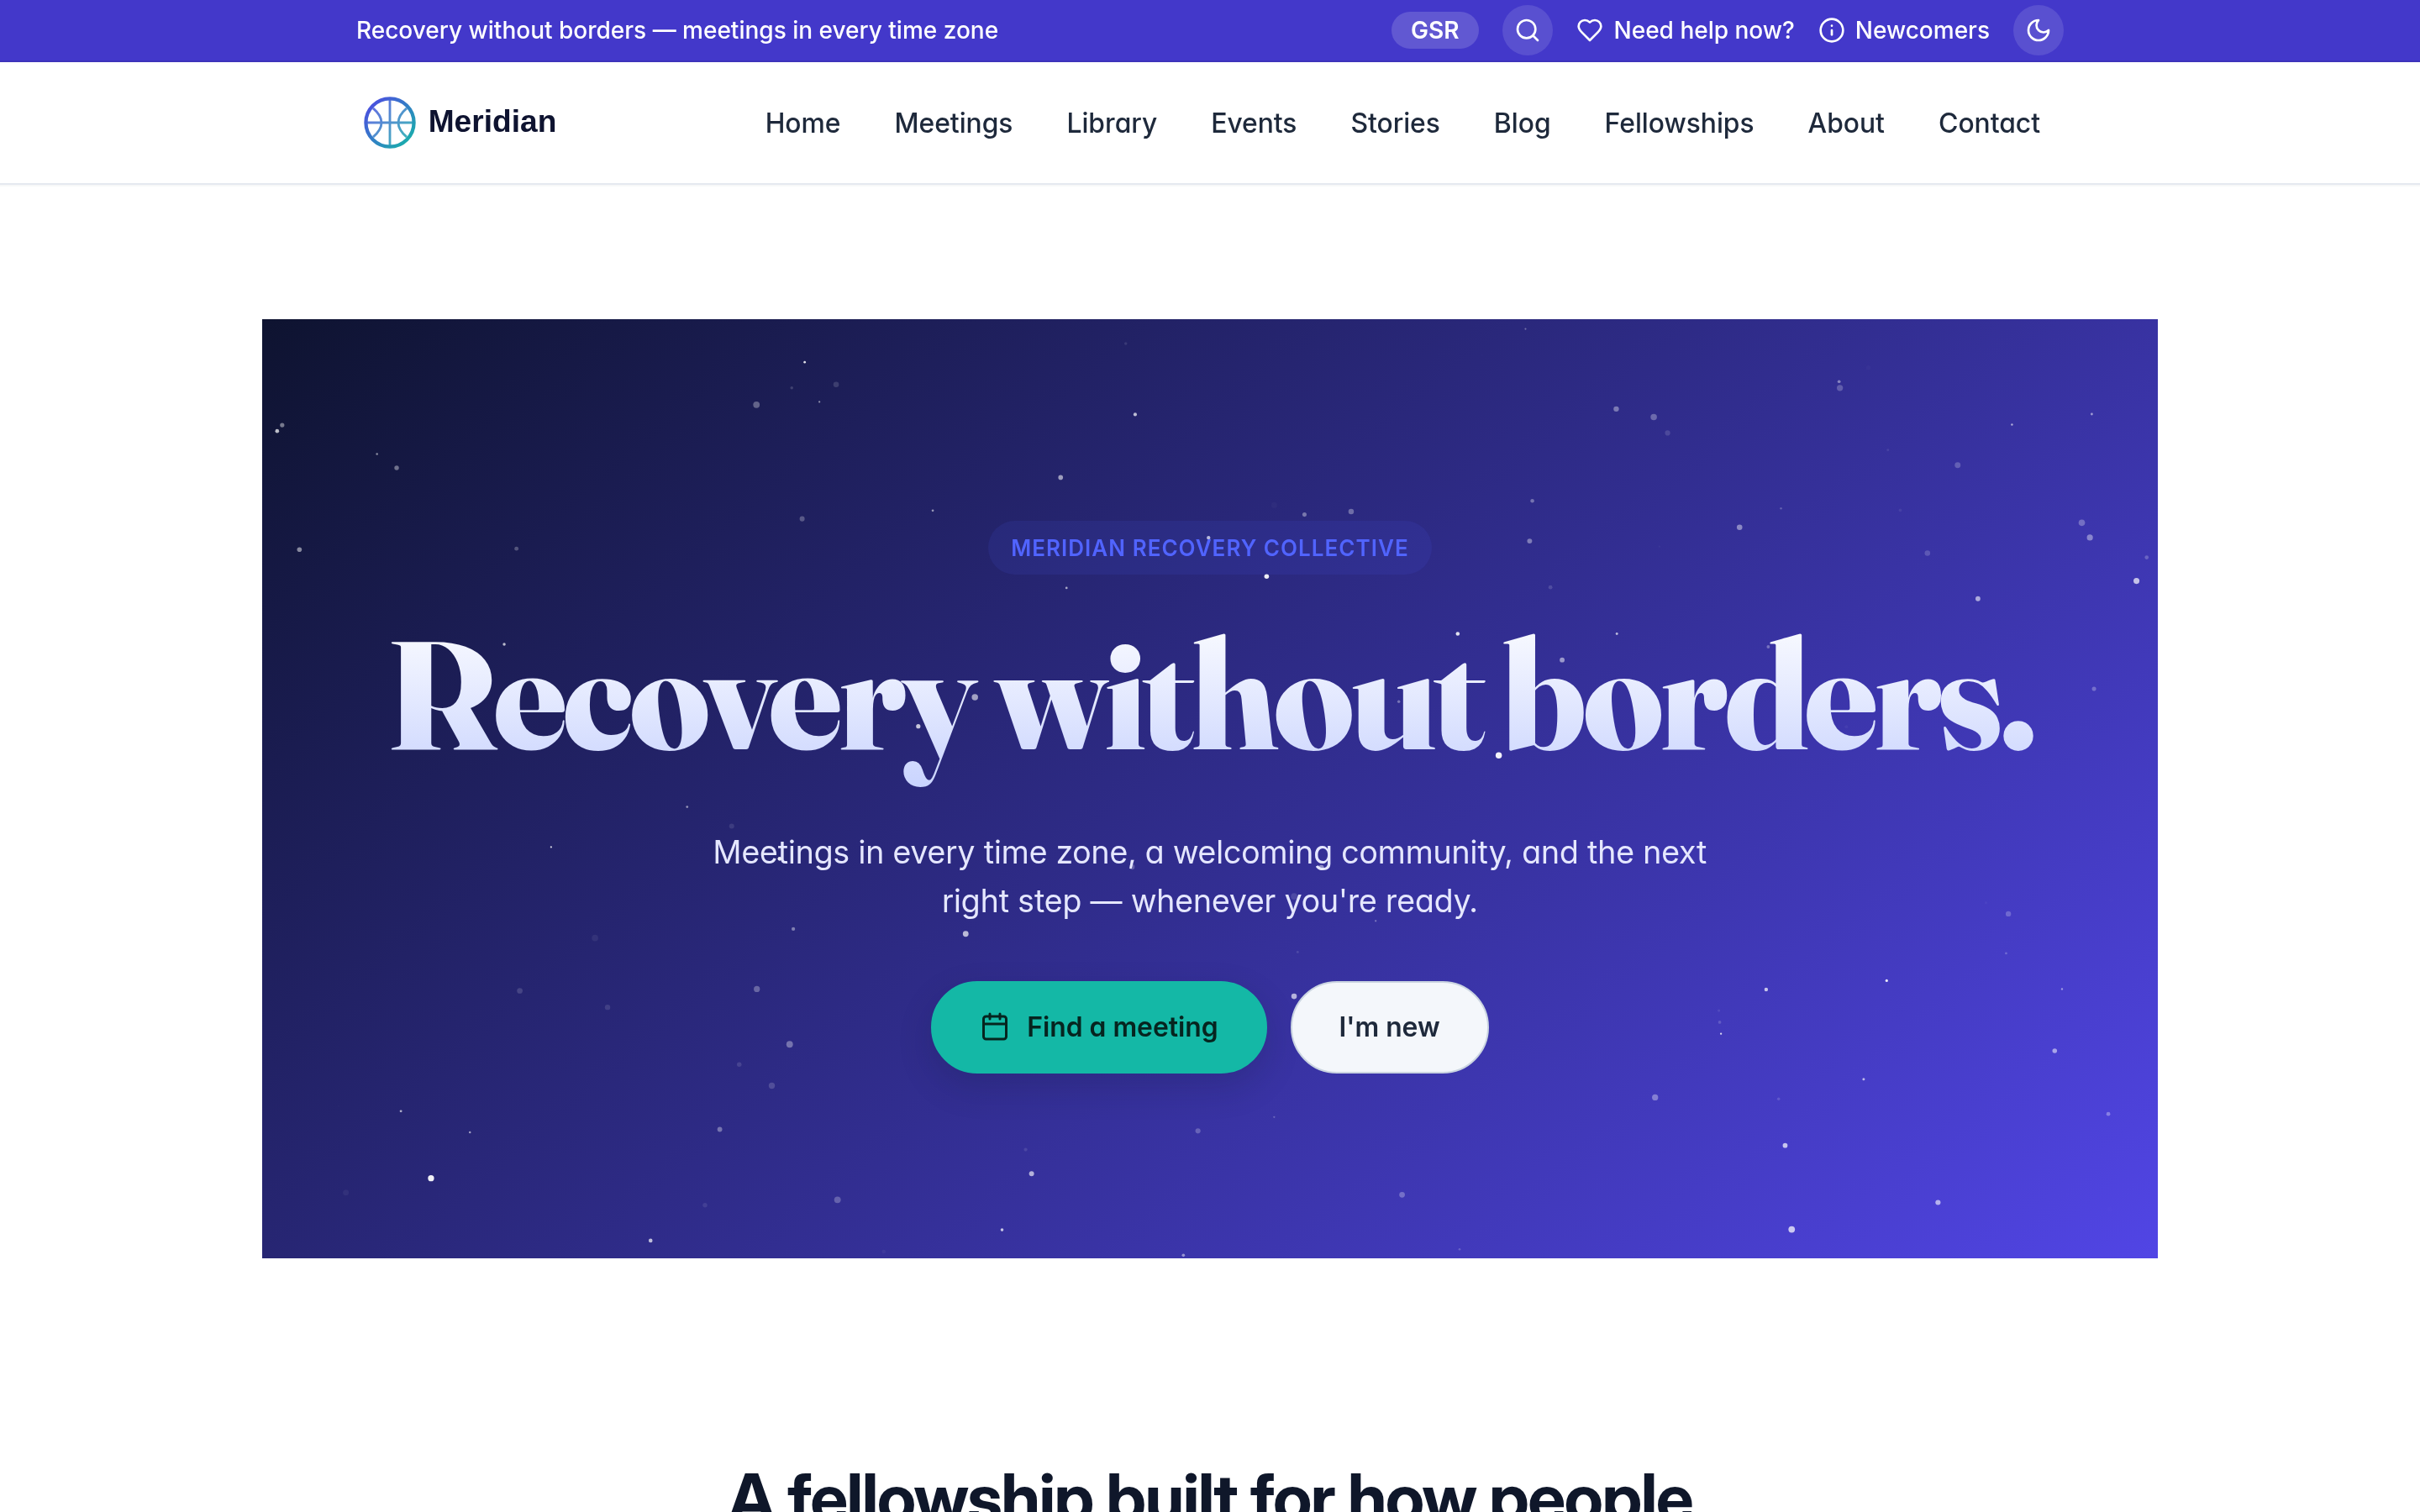
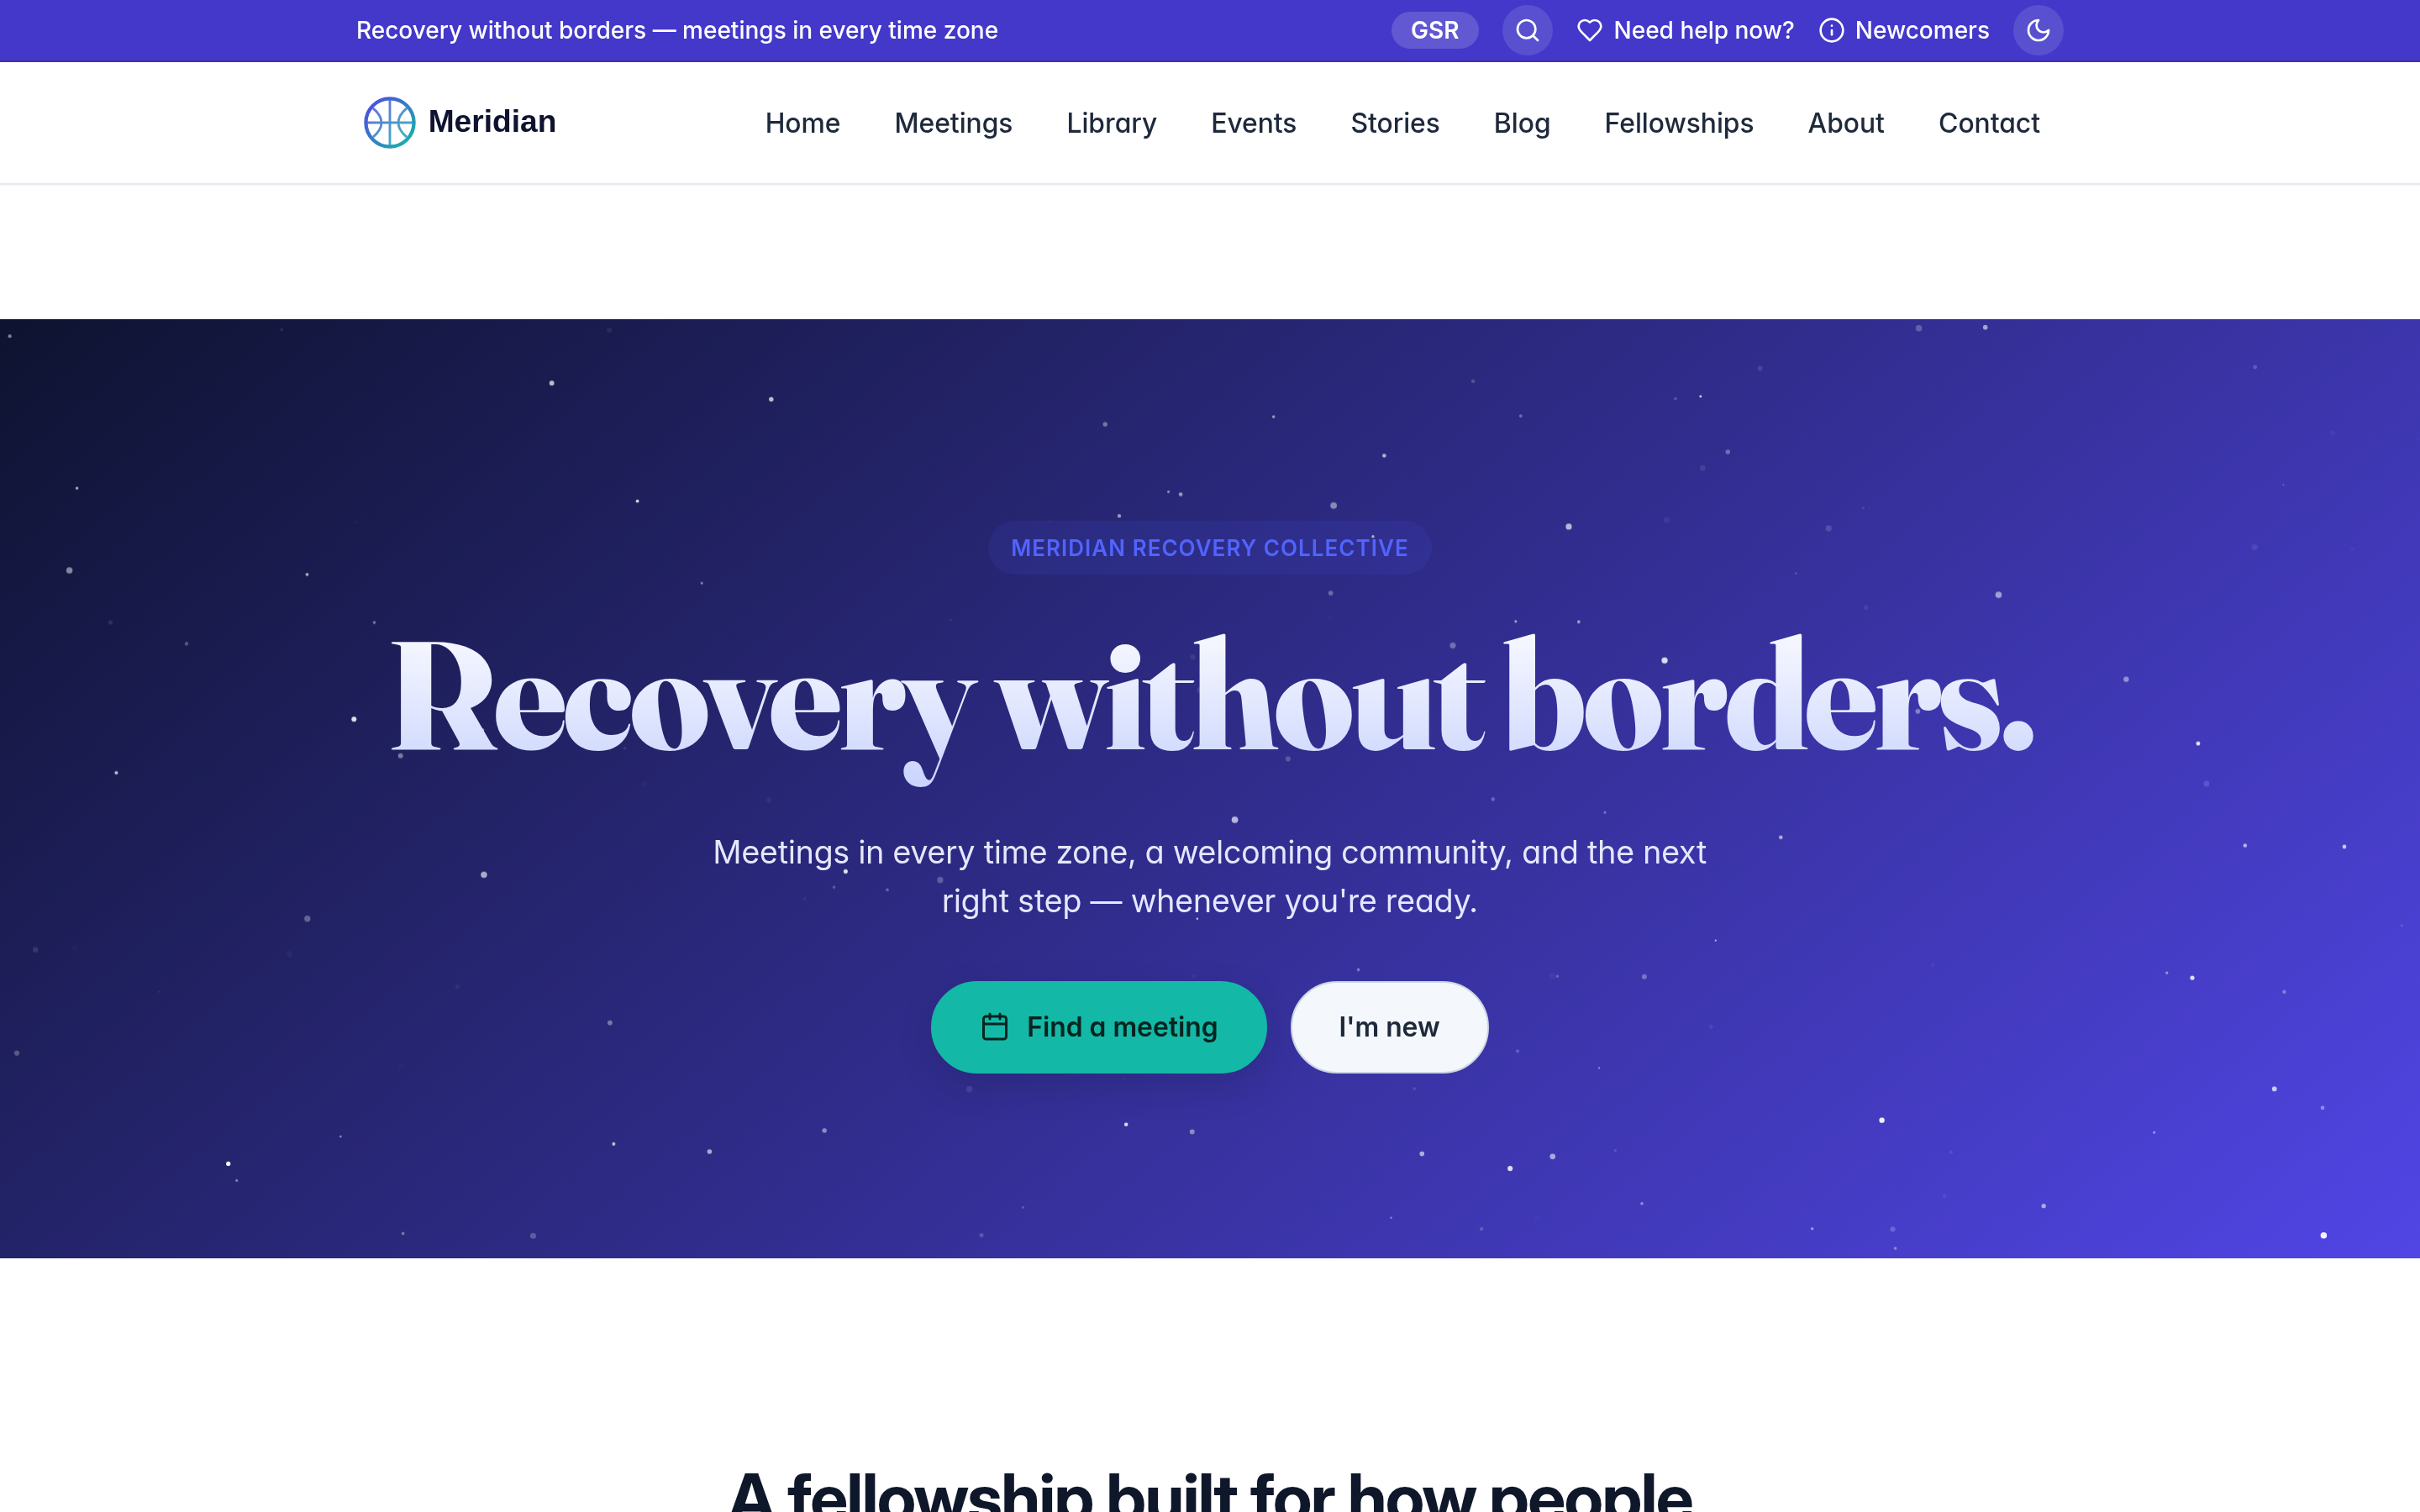
Marketing fixes: dark-mode toggle, full-bleed demo hero, copy + branding
- Fix dark mode: theme vars were declared on .pp which is on BOTH <html> and
  <body>; the body re-matched the prefers-color-scheme rules independently and
  ignored the data-theme toggle on <html>. Scope theme-var + logo/toggle swap
  selectors to :root so <body> inherits — toggling/stored theme now applies in
  every OS/choice combination.
- Hero graphic: replace the mock 'this week's meetings' card with the real
  be-dashboard.png screenshot; dedupe images across hero/surfaces/showcase.
- Demo homepage hero now spans full width: keep the page boxed (centered
  content) and let .fe-pp .fe-hero break out to 100vw (frontend.css), then
  re-screenshot fe-home for the marketing site; drop the redundant 'Upcoming
  meetings' section title.
- Stat '$0 …' → 'Free — open source & self-hosted' (no money framing).
- Footer + title use the product's real name: 'Trusted Servants Pro'
  (never 'Trusted Servant(s) Portal').

Changed region(s): [[0.0, 0.1867, 0.125, 0.84], [0.875, 0.1867, 1.0, 0.84]]

diff --git a/app/static/css/product.css b/app/static/css/product.css
@@ -17,7 +17,11 @@
 }
 
 /* ── theme tokens: dark is the base ──────────────────────────────────────── */
-.pp {
+/* NB: theme variables are declared on :root (the <html> element) ONLY, not on
+   the generic `.pp` — because `.pp` is also on <body>, and if the conditional
+   light rules matched <body> independently it would ignore the data-theme
+   toggle set on <html>. Declaring vars on :root lets <body> inherit them. */
+:root.pp {
   --brand: #6366f1;
   --brand-2: #8b5cf6;
   --teal: #2dd4bf;
@@ -45,7 +49,7 @@
 /* light overrides — applied when the user picks light OR the OS prefers light
    and they haven't forced dark. (Block intentionally duplicated; CSS can't
    share a declaration body between a media query and a plain selector.) */
-.pp[data-theme="light"] {
+:root.pp[data-theme="light"] {
   --ink: #f5f7fc; --ink-2: #ffffff;
   --panel: rgba(14, 19, 48, 0.035); --panel-2: rgba(14, 19, 48, 0.06);
   --line: rgba(14, 19, 48, 0.12);
@@ -58,7 +62,7 @@
   color-scheme: light;
 }
 @media (prefers-color-scheme: light) {
-  .pp:not([data-theme="dark"]) {
+  :root.pp:not([data-theme="dark"]) {
     --ink: #f5f7fc; --ink-2: #ffffff;
     --panel: rgba(14, 19, 48, 0.035); --panel-2: rgba(14, 19, 48, 0.06);
     --line: rgba(14, 19, 48, 0.12);
@@ -146,19 +150,19 @@
 .pp-themetoggle svg { width: 18px; height: 18px; }
 /* default (no explicit theme) follows OS; show moon on dark, sun on light */
 .pp-themetoggle .pp-sun { display: none; }
-.pp[data-theme="light"] .pp-themetoggle .pp-sun { display: block; }
-.pp[data-theme="light"] .pp-themetoggle .pp-moon { display: none; }
+:root.pp[data-theme="light"] .pp-themetoggle .pp-sun { display: block; }
+:root.pp[data-theme="light"] .pp-themetoggle .pp-moon { display: none; }
 @media (prefers-color-scheme: light) {
-  .pp:not([data-theme="dark"]) .pp-themetoggle .pp-sun { display: block; }
-  .pp:not([data-theme="dark"]) .pp-themetoggle .pp-moon { display: none; }
+  :root.pp:not([data-theme="dark"]) .pp-themetoggle .pp-sun { display: block; }
+  :root.pp:not([data-theme="dark"]) .pp-themetoggle .pp-moon { display: none; }
 }
 
-/* logo swap by theme */
-.pp[data-theme="light"] .pp-logo-dark { display: none; }
-.pp[data-theme="light"] .pp-logo-light { display: block; }
+/* logo swap by theme (keyed off <html>'s data-theme via :root) */
+:root.pp[data-theme="light"] .pp-logo-dark { display: none; }
+:root.pp[data-theme="light"] .pp-logo-light { display: block; }
 @media (prefers-color-scheme: light) {
-  .pp:not([data-theme="dark"]) .pp-logo-dark { display: none; }
-  .pp:not([data-theme="dark"]) .pp-logo-light { display: block; }
+  :root.pp:not([data-theme="dark"]) .pp-logo-dark { display: none; }
+  :root.pp:not([data-theme="dark"]) .pp-logo-light { display: block; }
 }
 
 /* ── hero ───────────────────────────────────────────────────────────────── */

diff --git a/app/templates/product/landing.html b/app/templates/product/landing.html
@@ -34,7 +34,7 @@
   <meta name="viewport" content="width=device-width, initial-scale=1">
   {# Apply saved theme before paint to avoid a flash. #}
   <script>(function(){try{var t=localStorage.getItem('pp-theme');if(t==='light'||t==='dark')document.documentElement.setAttribute('data-theme',t);}catch(e){}})();</script>
-  <title>TSP Pro — the all-in-one web portal for recovery fellowships</title>
+  <title>Trusted Servants Pro — the all-in-one web platform for recovery fellowships</title>
   <meta name="description" content="TSP Pro runs your fellowship's entire web presence — public site and admin backend — from one self-hosted app. Explore the live, fully interactive demo.">
   <link rel="icon" href="{{ url_for('static', filename='img/favicon.png') }}">
   <link rel="stylesheet" href="{{ url_for('static', filename='css/product.css') }}">
@@ -83,19 +83,7 @@
       </div>
 
       <div class="pp-reveal in">
-        <div class="pp-window" role="img" aria-label="Preview of the public meeting schedule">
-          <div class="pp-window-bar">
-            <span class="pp-dot"></span><span class="pp-dot"></span><span class="pp-dot"></span>
-            <span class="pp-window-url">meridianrecovery.example/meetings</span>
-          </div>
-          <div class="pp-window-body">
-            <div class="pp-mini-head"><span>This week's meetings</span><em>● 3 live now</em></div>
-            <div class="pp-mini-row"><span class="pp-mini-time">07:00</span><span class="pp-mini-name">Sunrise Serenity</span><span class="pp-chip pp-chip-online">Online</span></div>
-            <div class="pp-mini-row"><span class="pp-mini-time">12:00</span><span class="pp-mini-name">Midday Reset</span><span class="pp-chip pp-chip-live">Live</span></div>
-            <div class="pp-mini-row"><span class="pp-mini-time">19:00</span><span class="pp-mini-name">Steps &amp; Traditions Study</span><span class="pp-chip pp-chip-hybrid">Hybrid</span></div>
-            <div class="pp-mini-row"><span class="pp-mini-time">23:00</span><span class="pp-mini-name">Late Night Lifeline</span><span class="pp-chip pp-chip-online">Online</span></div>
-          </div>
-        </div>
+        {{ shot('be-dashboard.png', 'localhost:8090/tspro · dashboard', 'The Trusted Servants Pro admin dashboard') }}
       </div>
     </div>
 
@@ -104,7 +92,7 @@
         <div class="pp-stat"><b data-count="20" data-suffix="+">20+</b><span>built-in modules, all toggleable</span></div>
         <div class="pp-stat"><b data-count="100" data-suffix="%">100%</b><span>your data — self-hosted, no per-seat fees</span></div>
         <div class="pp-stat"><b>1</b><span>command to deploy with Docker</span></div>
-        <div class="pp-stat"><b>$0</b><span>open source, SQLite-simple</span></div>
+        <div class="pp-stat"><b>Free</b><span>open source &amp; self-hosted</span></div>
       </div>
     </div>
   </section>
@@ -145,7 +133,7 @@
           </ul>
           <p style="margin-top:1.4rem"><a class="pp-btn pp-btn-ghost" href="{{ DEMO_ADMIN }}">Open the admin (admin / admin) →</a></p>
         </div>
-        <div class="pp-split-media">{{ shot('be-dashboard.png', 'localhost:8090/tspro · dashboard', 'The admin dashboard') }}</div>
+        <div class="pp-split-media">{{ shot('be-watchtower.png', 'localhost:8090/tspro/watchtower', 'Watchtower analytics') }}</div>
       </div>
     </div>
   </section>
@@ -161,7 +149,7 @@
       <div class="pp-showcase pp-stagger pp-reveal">
         <figure>{{ shot('be-frontend.png', '/tspro/frontend', 'Web Frontend admin') }}<figcaption><b>Web Frontend studio</b>Pages, branding, design tokens, navigation, footer, forms — a CMS for your whole public site.</figcaption></figure>
         <figure>{{ shot('be-meetings.png', '/tspro/meetings', 'Meetings admin') }}<figcaption><b>Meetings &amp; schedules</b>Recurring days/times, Zoom details, libraries, and public visibility per meeting.</figcaption></figure>
-        <figure>{{ shot('be-watchtower.png', '/tspro/watchtower', 'Watchtower analytics') }}<figcaption><b>Watchtower analytics</b>Privacy-first visitor metrics, 404 tracking, access requests, and IP controls.</figcaption></figure>
+        <figure>{{ shot('fe-meetings.png', 'meridianrecovery.example/meetings', 'Public meeting schedule') }}<figcaption><b>Public meeting schedule</b>Day/time grid with in-person, online &amp; hybrid badges and one-click Zoom join.</figcaption></figure>
         <figure>{{ shot('fe-library.png', 'meridianrecovery.example/library', 'Public literature library') }}<figcaption><b>Literature library</b>Curated readings, scripts, and service docs — public on the site, managed in the admin.</figcaption></figure>
       </div>
     </div>
@@ -315,7 +303,7 @@ viibeware/trusted-servants-pro/main/install.sh | sudo bash
   <!-- footer -->
   <footer class="pp-foot">
     <div class="pp-wrap pp-foot-in">
-      <div>© {{ year }} TSP&nbsp;Pro · Trusted Servant Portal. Built with Flask.</div>
+      <div>© {{ year }} Trusted&nbsp;Servants&nbsp;Pro. Built with Flask.</div>
       <nav class="pp-foot-links">
         <a href="{{ DEMO_SITE }}">Public demo</a>
         <a href="{{ DEMO_ADMIN }}">Admin demo</a>

diff --git a/app/static/css/frontend.css b/app/static/css/frontend.css
@@ -11524,3 +11524,20 @@ body.fe-popup-open { overflow: hidden; }
 @media (min-width: 769px) {
   .fe-popup-no-desktop { display: none !important; }
 }
+
+/* >>> TSP demo overlay (branch: demo — keep on merge, not on main) >>>
+   Full-bleed hero on page-builder pages: let a `hero` block break out of the
+   boxed page shell to span the viewport, while the rest of the page stays
+   centered. Scoped to `.fe-pp` so it only affects page-builder pages (not the
+   classic homepage or meeting/event detail heroes). `overflow-x: clip` guards
+   against the 1px-ish horizontal overflow that 100vw causes when a classic
+   scrollbar is present — and unlike `hidden`, `clip` doesn't break sticky. */
+body.frontend-body { overflow-x: clip; }
+.fe-pp .fe-hero {
+  width: 100vw;
+  max-width: 100vw;
+  margin-left: calc(50% - 50vw);
+  margin-right: calc(50% - 50vw);
+  border-radius: 0;
+}
+/* <<< TSP demo overlay <<< */

diff --git a/app/demo_seed.py b/app/demo_seed.py
@@ -753,7 +753,7 @@ def _seed_pages(s, libraries, blog_news_id):
                       "body": "Cameras off is fine. Hosts keep every room secure."},
                  ]),
         ]),
-        _section("Upcoming meetings", [
+        _section("", [
             _blk("meetings", filter="next_7_days", max_count=6, group_by_day=False,
                  show_type_chip=True, show_schedule=True),
         ]),
@@ -778,6 +778,11 @@ def _seed_pages(s, libraries, blog_news_id):
         db.session.flush()
     home.blocks_json = json.dumps(home_blocks)
     home.title = FELLOWSHIP_NAME
+    # Boxed content (centered at max_width) while the hero block itself breaks
+    # out to full-bleed via the `.fe-pp .fe-hero` rule added in frontend.css —
+    # a full-width hero with comfortably centered content below.
+    home.width_mode = "boxed"
+    home.max_width = 1160
     db.session.flush()
     if s.homepage_page_id != home.id:
         s.homepage_page_id = home.id

diff --git a/DEMO_OVERLAY.md b/DEMO_OVERLAY.md
@@ -64,6 +64,7 @@ markers and is a **no-op on a normal install**, so they're safe and easy to spot
 | `app/templates/frontend/base.html` | same include | same |
 | `app/templates/frontend/headers/classic.html` | `href="{{ home_url or url_for('frontend.index') }}"` | `home_url` is unset off-demo → falls back to `url_for` |
 | `app/templates/frontend/headers/recovery-blue.html` | same | same |
+| `app/static/css/frontend.css` | appended `.fe-pp .fe-hero` full-bleed rule (+ `overflow-x: clip`) so page-builder heroes span full width | Additive rule at EOF; only affects page-builder hero blocks |
 
 ## The bugfix
 